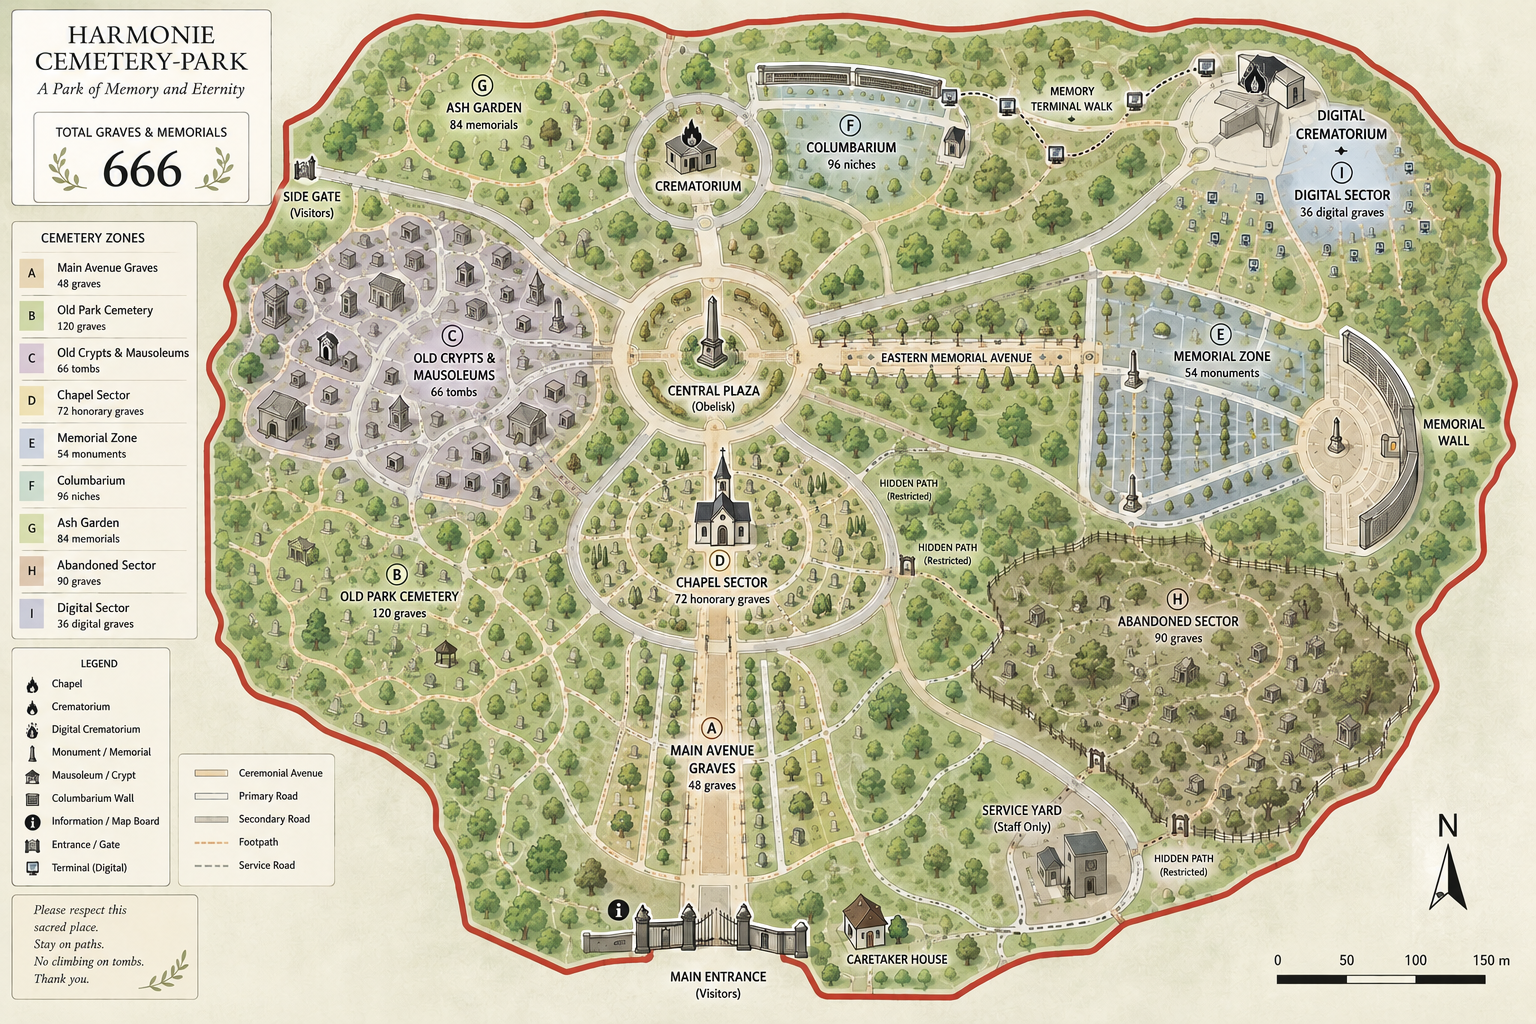
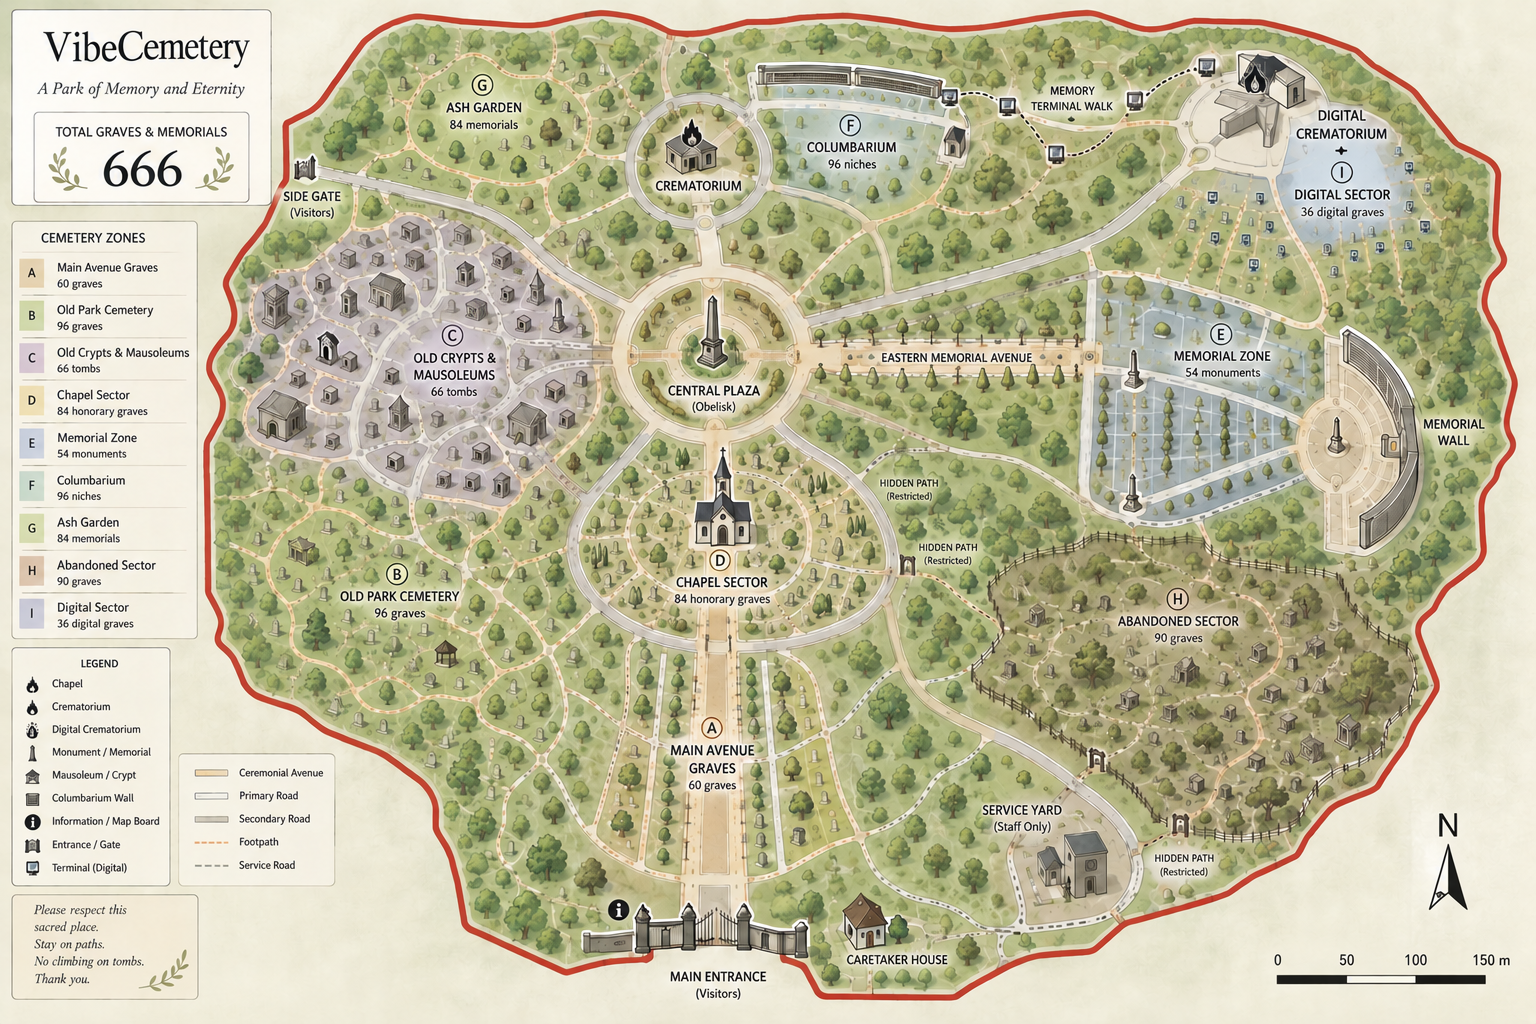
Update cemetery master plan counts and title

diff --git a/docs/map2.md b/docs/map2.md
@@ -2,7 +2,7 @@
 
 Updated 2026-09-24. Production serves the v2 cemetery at `/cemetery`.
 
-Two of nine planned zones are open. Future zones will be released around announced GRAVE burn checkpoints. The runtime does not yet assign stable zone IDs or automatically unlock terrain from a burn threshold. The [master-plan illustration](images/cemetery-master-plan.png) is concept art; its illustrated allocations are provisional.
+Two of nine planned zones are open. Future zones will be released around announced GRAVE burn checkpoints. The runtime does not yet assign stable zone IDs or automatically unlock terrain from a burn threshold. The [master-plan illustration](images/cemetery-master-plan.png) labels the 144 current plots as A: 60 and D: 84, divided at world y = 2312 by plot center for the illustration. Its seven future-zone allocations remain provisional and sum to 522.
 
 ## Map contract
 
@@ -51,7 +51,7 @@ Desktop HUD includes the bottom chat and red Bury button, plus the minimap and d
 
 The TMJ still references its original 74 PNGs: 71 selected PixelLab images, `tilesets/grass_flagstone_spritesheet.png`, and the generated `planning_tiles.png` and `blockout_tiles.png`. They remain available as fallback and for Tiled editing. The last two are generated by `node scripts/generate-blockout-pngs.mjs` from SVG sources.
 
-The open-zone painted art is in `public/map/open-art/`. `terrain-v5.webp` is one ground image for the whole open map, including the entrance. Its grass and stone patches come directly from the cleaned first gate prototype, quilted across the unchanged TMJ road geometry at full-map size without mirrored repeats. There is no separate runtime entrance-ground layer or second grass/road texture set. The gate and two older memorials still come from `public/map/entrance-art/`. The source concept is `artifacts/visual-prototypes/cemetery-gate-redraw-concept-v1.png`.
+The open-zone painted art is in `public/map/open-art/`. `terrain-v5.webp` is one ground image for the whole open map, including the entrance. Its grass and stone patches come directly from the cleaned first gate prototype, quilted across the unchanged TMJ road geometry at full-map size without mirrored repeats. There is no separate runtime entrance-ground layer or second grass/road texture set. The gate still comes from `public/map/entrance-art/`. The two older memorial props were removed because they resembled interactive graves without having slots or modals. The source concept is `artifacts/visual-prototypes/cemetery-gate-redraw-concept-v1.png`.
 
 The 47 grave GIDs (51–97) map to twelve four-frame transparent atlases. The 16 tree GIDs (35–50) map to four four-frame transparent atlases. Six tree frames (35, 36, 39, 42, 45, 46) use cyber-gothic concepts from `artifacts/tree-concepts/`; the other frames retain the original painted art. Tree frames render with uniform horizontal and vertical scale, so Tiled's narrow object rectangles cannot squeeze their crowns. The Crypt, both Crematory wings, lodge and side fence have separate painted images. Crypt and Crematory art retains each original template while following the Lodge's camera angle and palette; `node scripts/build-lodge-angle-buildings.mjs` rebuilds the three WebP assets. The source PNGs are in `artifacts/painted-map-sources/`; run `node scripts/build-unified-prototype-terrain.mjs` to rebuild the active ground image and `node scripts/prepare-open-art.mjs` for the other optimized WebP assets, including the new tree atlases. For tree-only changes, run `node scripts/build-cybergothic-tree-atlases.mjs`. Keep source art outside `public/`.
 

diff --git a/docs/README.md b/docs/README.md
@@ -18,7 +18,7 @@ The live product is the v2 cemetery at [/cemetery](https://vibecemetery.app/ceme
 
 Two of nine zones are open. The current map contains 144 approved plots; the full-world target is 666. Further zones are planned around published GRAVE burn checkpoints. Thresholds, release dates and automated unlock behavior are not implemented contracts yet.
 
-The [master-plan illustration](images/cemetery-master-plan.png) shows the intended world, not a screenshot or an authoritative slot allocation. Use the shipped TMJ and slot audit for current behavior.
+The [master-plan illustration](images/cemetery-master-plan.png) shows A: 60 and D: 84 current plots, with 522 provisional plots in seven future zones. It is an illustration, not a screenshot or a runtime zone assignment. Use the shipped TMJ and slot audit for current behavior.
 
 The [Agent Ash / GitLawb experiment](agent-layer/README.md) is paused. Its archived contracts are maintained separately for compatibility; the active local-project workflow uses the site's agent instructions.
 

diff --git a/README.md b/README.md
@@ -45,7 +45,7 @@ New zones will open at checkpoints tied to the amount of **$GRAVE burned**. Burn
 
 ![The nine-zone cemetery master plan](docs/images/cemetery-master-plan.png)
 
-*The master plan shows the full world concept. Its illustrated zone allocations are provisional; the playable map currently has 144 plots across two open zones.*
+*The master plan labels the 144 current plots as A: 60 and D: 84. The other seven zones have a provisional combined budget of 522 plots, bringing the full-world plan to 666. The playable map does not yet store zone IDs per plot.*
 
 <details>
 <summary><strong>A note from the Keeper</strong></summary>
